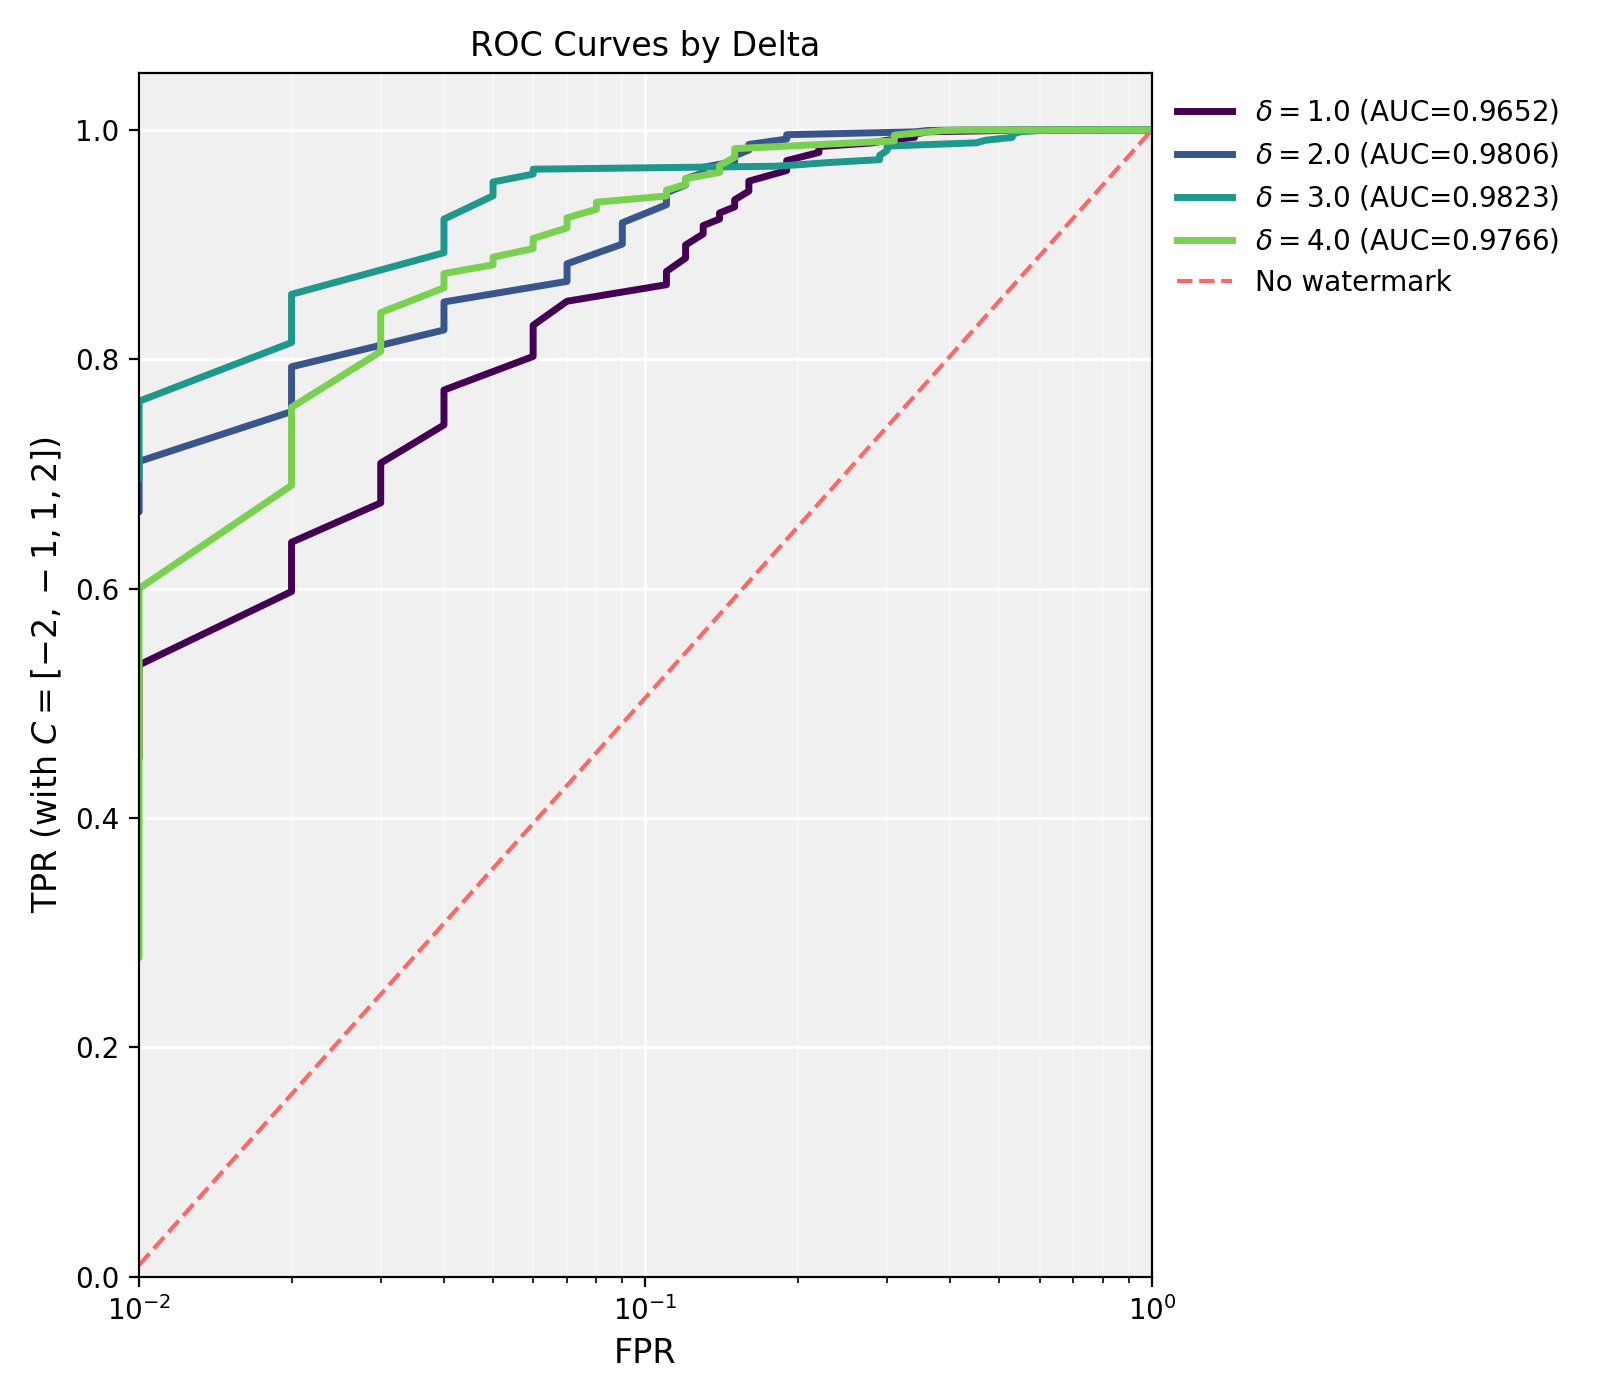
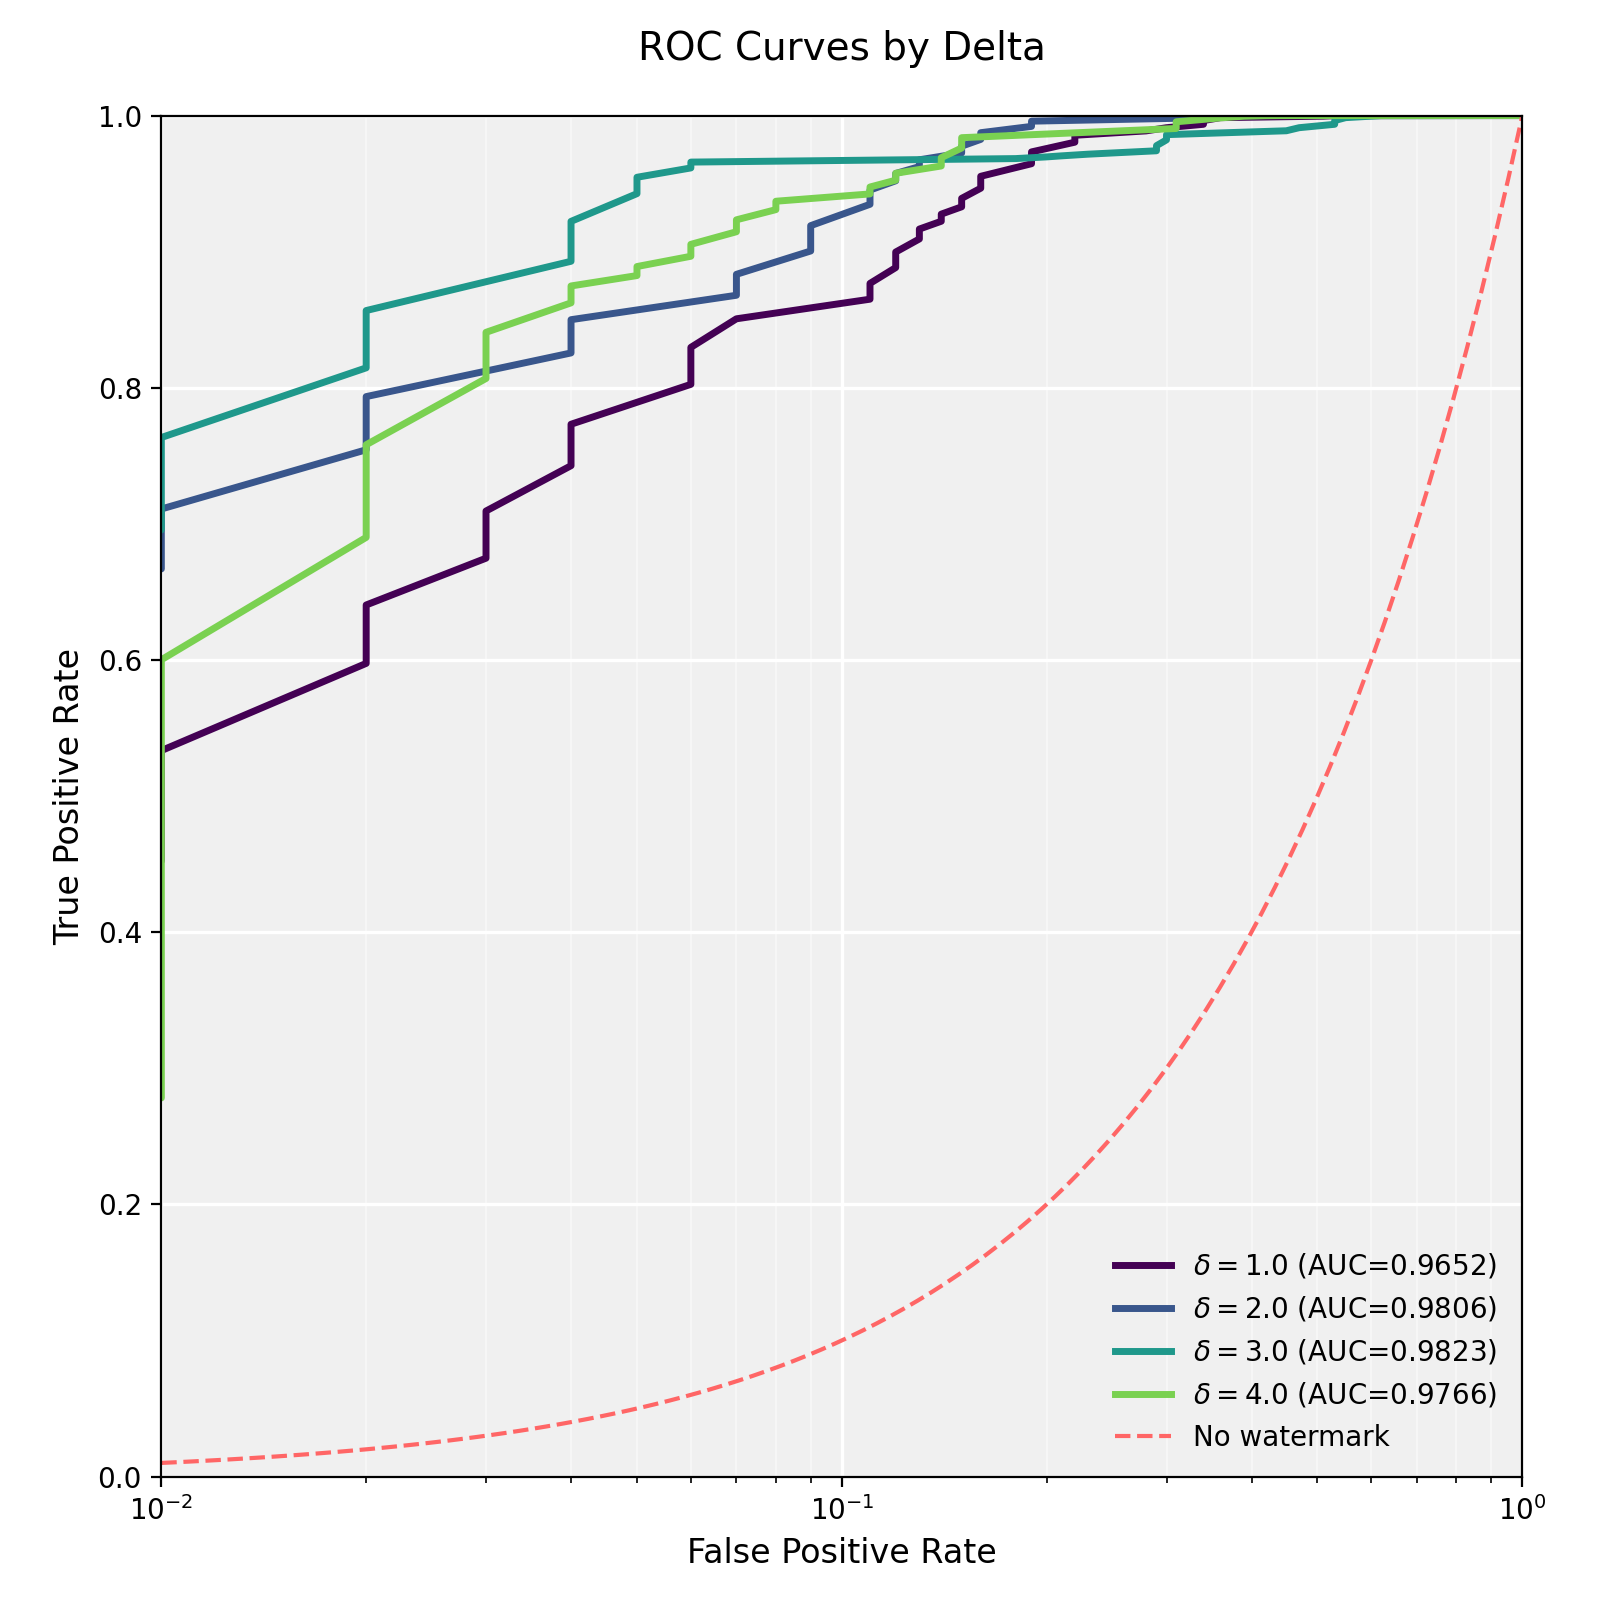
roc

diff --git a/scripts/graphs/roc_delta.py b/scripts/graphs/roc_delta.py
@@ -25,8 +25,9 @@ def compute_professional_roc(run_dir: str):
                 except json.JSONDecodeError:
                     continue
 
-    plt.figure(figsize=(8, 7), dpi=200)
-    plt.gca().set_facecolor('#f0f0f0')
+    plt.figure(figsize=(8, 8), dpi=200)
+    ax = plt.gca()
+    ax.set_facecolor('#f0f0f0')
     
     sorted_deltas = sorted(delta_groups.keys(), key=lambda x: float(x))
     colors = plt.cm.viridis(np.linspace(0, 0.8, len(sorted_deltas)))
@@ -54,22 +55,26 @@ def compute_professional_roc(run_dir: str):
 
     plt.xscale('log')
     plt.xlim([1e-2, 1.0])
-    plt.ylim([0.0, 1.05])
+    plt.ylim([0.0, 1.0])
     
-    plt.plot([1e-2, 1], [1e-2, 1], color='#ff6666', lw=1.5, ls='--', label='No watermark')
+    log_range = np.logspace(-2, 0, 100)
+    plt.plot(log_range, log_range, color='#ff6666', lw=1.5, ls='--', label='No watermark')    
     
-    plt.xlabel('FPR', fontsize=12)
-    plt.ylabel(r'TPR (with $C = [-2, -1, 1, 2]$)', fontsize=12)
-    plt.title(f'ROC Curves by Delta')
+    plt.xlabel('False Positive Rate', fontsize=12)
+    plt.ylabel('True Positive Rate', fontsize=12)
+    plt.title(f'ROC Curves by Delta', fontsize=14, pad=20)
     
     plt.grid(True, which="major", color='white', linewidth=1.2)
     plt.grid(True, which="minor", color='white', linewidth=0.6, alpha=0.5)
     
-    plt.legend(frameon=False, loc='upper left', bbox_to_anchor=(1, 1))
+    plt.legend(frameon=False, loc='lower right', fontsize=10)
+    
+    ax.set_box_aspect(1) 
     
     plt.tight_layout()
     out = os.path.join(run_dir, 'roc.png')
     plt.savefig(out)
+    plt.close()
     return out
 
 if __name__ == '__main__':

diff --git a/scripts/graphs/compute_roc.py b/scripts/graphs/compute_roc.py
@@ -84,8 +84,8 @@ def compute_roc(run_dir: str):
 
     plt.xlim([1e-3, 1.0])
     plt.ylim([0.0, 1.05])
-    plt.plot([1e-3, 1], [0, 1], color='#ff6666', lw=1.5, ls='--', label='No watermark')
-
+    log_range = np.logspace(-3, 0, 100)
+    plt.plot(log_range, log_range, color='#ff6666', lw=1.5, ls='--', label='No watermark')
     plt.xlabel('False Positive Rate', fontsize=12)
     plt.ylabel('True Positive Rate', fontsize=12)
     plt.title(f'ROC curve by Generation Length - {os.path.basename(run_dir)}', fontsize=14)
